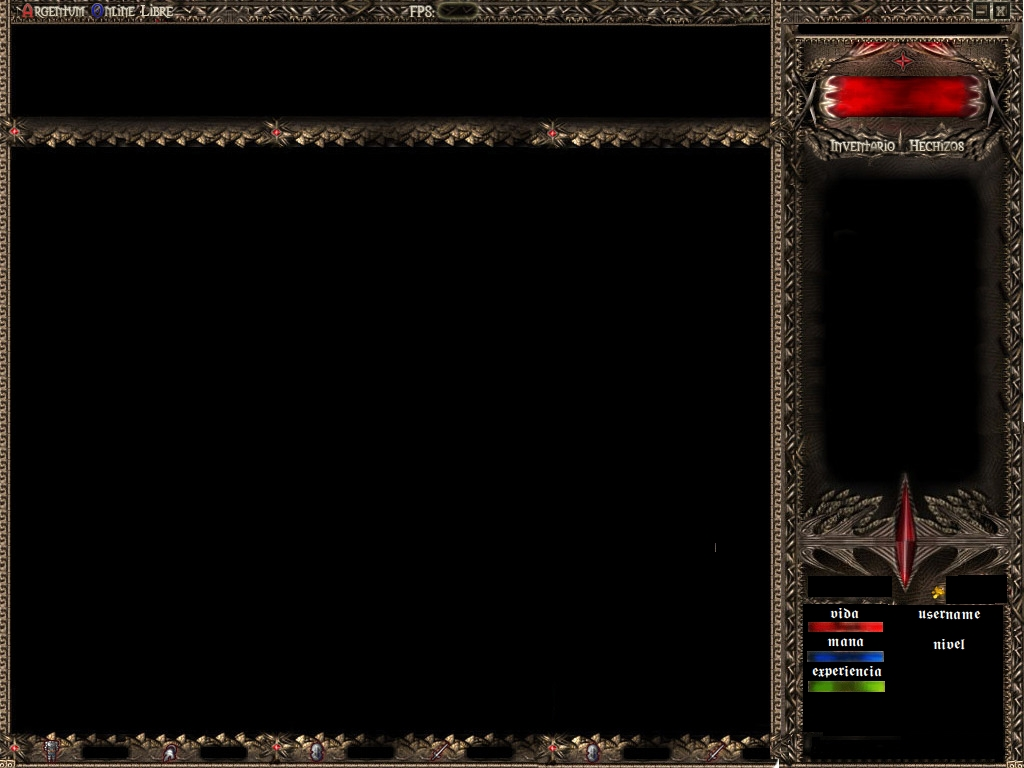
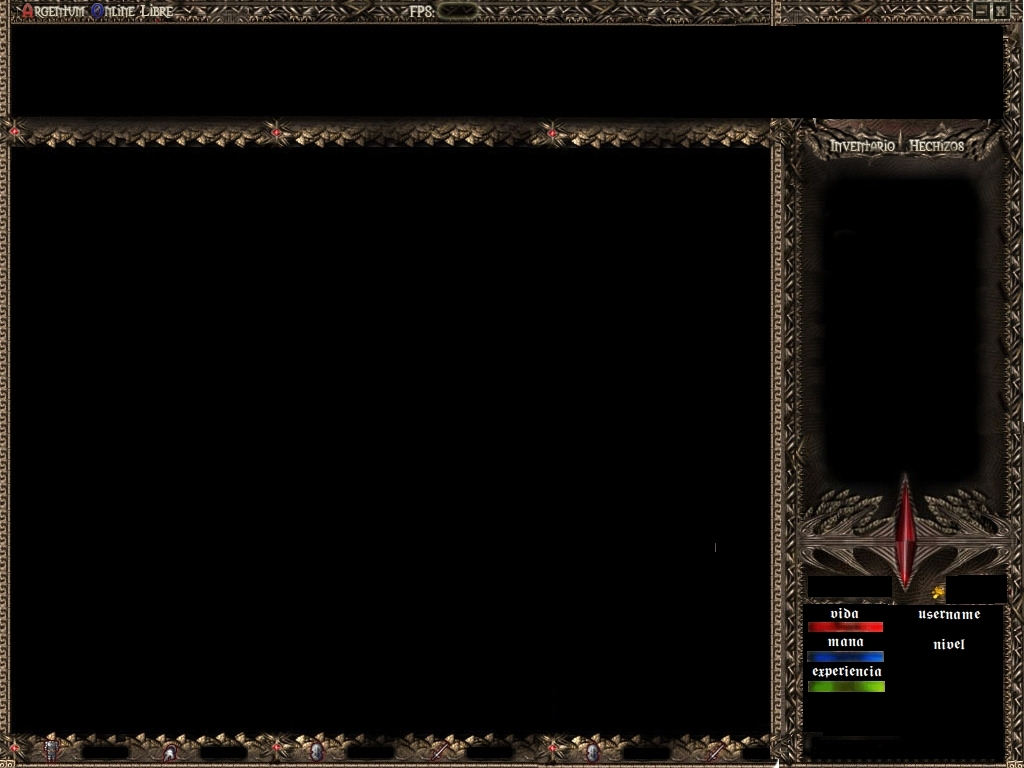
rendering deposited gold

Changed region(s): [[0.75, 0.0312, 1.0, 0.1562]]

diff --git a/client/game/game_render.cpp b/client/game/game_render.cpp
@@ -145,13 +145,26 @@ void GameRender::setTilesSize(int width,int height) {
     window.setTilesSize(width,height);
 }
 
-void GameRender::renderList(std::vector<list_item_t> &items) {
-    surfacesManager.createNecessaryListItems(items);
+void GameRender::renderList(list_t list) {
+    if ((list.num_items == 0) && (list.gold_quantity == 0)) return;
+    surfacesManager.createNecessaryListItems(list.items);
     std::vector<Surface*> surfaces;
-    for (auto it = std::begin(items); it != std::end(items); ++it) {
+    for (auto it = std::begin(list.items); it != std::end(list.items); ++it) {
          surfaces.push_back(surfacesManager.itemSurfacesMap[it->type]);
     }
     window.renderList(surfaces);
+    if (list.show_price) {
+        std::vector<Surface*> price_surfaces;
+        for (auto it = std::begin(list.items); it != std::end(list.items); ++it) {
+            price_surfaces.push_back(surfacesManager.getTextSurface(std::to_string(it->price)));
+        }
+        window.renderListPrices(price_surfaces);
+    }
+    else {
+        Surface* quantity = surfacesManager.getTextSurface(std::to_string(list.gold_quantity));
+        window.renderListGold(surfacesManager.goldSurface, quantity);
+    }
+
 }
 
 
@@ -180,8 +193,7 @@ void GameRender::run() {
         renderGolds(current_world.golds);
         renderPlayerInfo(current_world.percentages,
                 current_world.main_player.level);
-        renderList(current_world.list.items);
-        //window.renderListGold();
+        renderList(current_world.list);
         window.UpdateWindowSurface();
         auto end = clock::now();
         auto elapsed = std::chrono::duration_cast<ms>(end - start).count();

diff --git a/client/sdl/window.cpp b/client/sdl/window.cpp
@@ -159,7 +159,9 @@ void SDLWindow::renderInventoryGolds(Surface* surface, Surface* quantity) {
 }
 
 
-void SDLWindow::renderListGold(Surface* surface) {
+void SDLWindow::renderListGold(Surface* surface, Surface* quantity_surface) {
+    SDL_BlitScaled(quantity_surface->getRenderableSurface(), NULL,
+                   getSurface(), &measurements.listGoldQuantityStaticRect);
     SDL_BlitScaled(surface->getRenderableSurface(), NULL,
                    getSurface(), &measurements.listGoldStaticRect);
 }
@@ -298,6 +300,29 @@ void SDLWindow::renderPlayerInfo(std::map<int, float>& player_info,
 
 void SDLWindow::renderList(std::vector<Surface*>& surfaces) {
     game_area_t& list_area = measurements.list;
+    int x,y, w, h;
+    w = (list_area.x_pixel_end-list_area.x_pixel_begin)/LIST_MAX_TILES_WIDTH;
+    h = w;
+    x = list_area.x_pixel_begin;
+    y = list_area.y_pixel_begin;
+    int surfaces_size = surfaces.size();
+    int current_index = 0;
+    SDL_Rect stretchRect;
+    while (current_index < surfaces_size) {
+        stretchRect.x = x;
+        stretchRect.y = y;
+        stretchRect.w = w;
+        stretchRect.h = h;
+        SDL_BlitScaled(surfaces[current_index]->getRenderableSurface(), NULL,
+                       getSurface(), &stretchRect);
+        x = x + w;
+        current_index ++;
+    }
+}
+
+
+void SDLWindow::renderListPrices(std::vector<Surface*>& surfaces) {
+    game_area_t& list_area = measurements.list_prices;
     int x,y, w, h;
     w = (list_area.x_pixel_end-list_area.x_pixel_begin)/LIST_MAX_TILES_WIDTH;
     h = w;

diff --git a/client/sdl/window_measurements.cpp b/client/sdl/window_measurements.cpp
@@ -56,6 +56,13 @@ void WindowMeasurements::initializeStaticAreas() {
                             list_gold_area.x_pixel_begin);
     listGoldStaticRect.h = (list_gold_area.y_pixel_end -
                             list_gold_area.y_pixel_begin);
+    listGoldQuantityStaticRect.x = listGoldStaticRect.x;
+    listGoldQuantityStaticRect.y = listGoldStaticRect.y + (int) (listGoldStaticRect.h *1.1);
+    listGoldQuantityStaticRect.w = (list_gold_area.x_pixel_end -
+                            list_gold_area.x_pixel_begin);
+    listGoldQuantityStaticRect.h = (list_gold_area.y_pixel_end -
+                            list_gold_area.y_pixel_begin);
+
 }
 
 
@@ -104,6 +111,11 @@ void WindowMeasurements::initializeItemInfo(int screenWidth,
     list = {(int) (screenWidth / 100.0) * 44,
             (int) (screenWidth / 100.0) * 74,
             (int) (screenHeight / 100.0) * 5,
+            (int) (screenHeight /100.0) * 15};
+
+    list_prices = {(int) (screenWidth / 100.0) * 44,
+            (int) (screenWidth / 100.0) * 74,
+            (int) (screenHeight / 100.0) * 10,
             (int) (screenHeight /100.0) * 15};
 
     listGold = {(int) (screenWidth / 100.0) * 75,

diff --git a/client/sdl/window.h b/client/sdl/window.h
@@ -93,7 +93,8 @@ public:
             std::map<int, Surface *> info_surfaces_map,
             Surface* level_surface);
     void renderList(std::vector<Surface*>& surfaces);
-    void renderListGold(Surface* surface);
+    void renderListPrices(std::vector<Surface*>& surfaces);
+    void renderListGold(Surface* surface, Surface* quantity);
     void renderInventoryGolds(Surface* surface, Surface* quantity);
     void renderText(Surface* surface);
     void renderLevel(Surface* level_surface);

diff --git a/client/sdl/window_measurements.h b/client/sdl/window_measurements.h
@@ -17,6 +17,7 @@ struct WindowMeasurements {
     game_area_t inventory;
     game_area_t inventoryGold;
     game_area_t list;
+    game_area_t list_prices;
     game_area_t listGold;
     game_area_t equipped;
     game_area_t life;
@@ -28,6 +29,7 @@ struct WindowMeasurements {
     SDL_Rect gameFrameStaticRect;
     SDL_Rect inventoryGoldStaticRect;
     SDL_Rect listGoldStaticRect;
+    SDL_Rect listGoldQuantityStaticRect;
     WindowMeasurements();
     ~WindowMeasurements();
 

diff --git a/client/game/game_render.h b/client/game/game_render.h
@@ -56,7 +56,7 @@ public:
     void renderInventory(std::vector<uint8_t>& inventory);
     void renderInventoryGolds(uint16_t quantity);
     void renderGameFrame();
-    void renderList(std::vector<list_item_t> &items);
+    void renderList(list_t list);
 
 
     //Inicializador de SDL

diff --git a/client/game/map.cpp b/client/game/map.cpp
@@ -352,7 +352,6 @@ std::vector<int> Map::getGoldStandingAt() {
 
 
 void Map::interact() {
-    std::cout << "\n\n\n TE LO PONGO EN TRUE EH";
     interactingWithNpc = true;
 }
 void Map::uninteract() {
